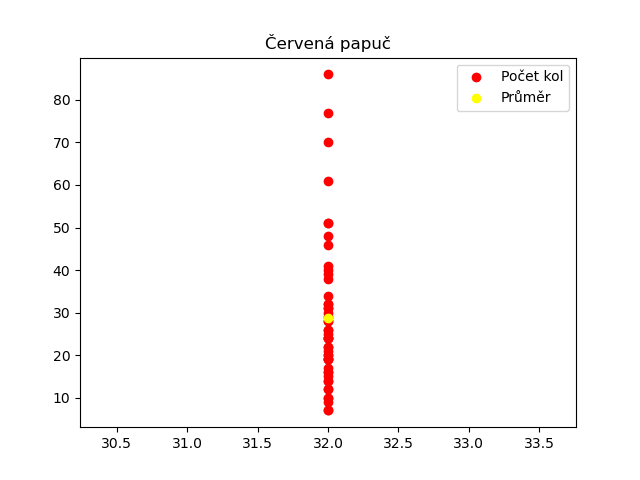
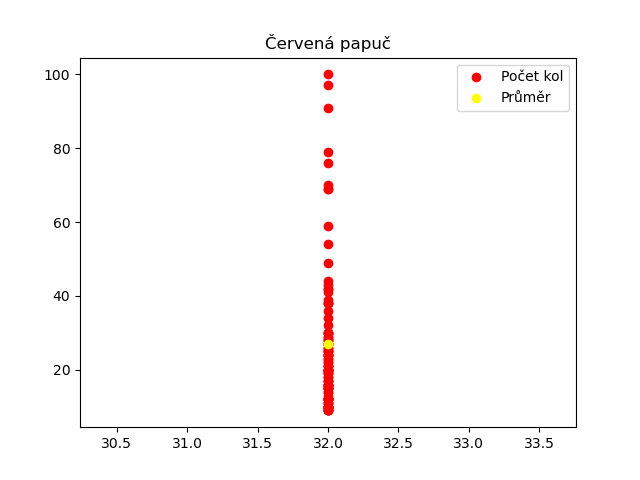
32 test

diff --git a/Červená papuč/README.md b/Červená papuč/README.md
@@ -30,4 +30,6 @@ S výsledného souboru `RESULUTS` provede znázornění do obrázku:
 
 ![obrázku](plot.png)
 
-Kde je i lineární regrese.
+A taky standardního balíčku s `32` kartami, z nichž `8` je červených.
+
+![obrázek](plot32.png)
